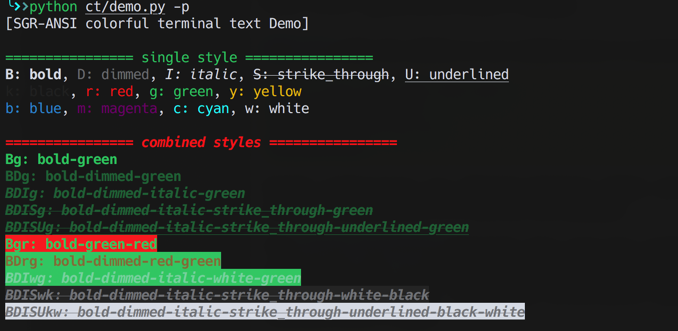
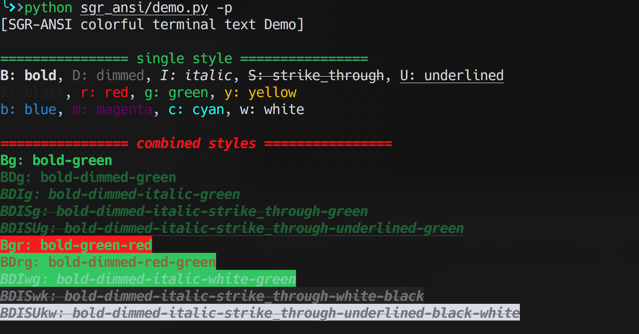
feat: support cli sgransi, update README

diff --git a/setup.py b/setup.py
@@ -17,6 +17,9 @@ setup(
     long_description_content_type="text/markdown",
     license='GPL',
     install_requires=[],
+    entry_points={
+        'console_scripts': ['sgransi=sgr_ansi.demo:main'],
+    },
     project_urls={
         'Bug Reports': 'https://github.com/coghost/sgr-ansi/issues',
         'Source': 'https://github.com/coghost/sgr-ansi',

diff --git a/README.md b/README.md
@@ -6,6 +6,8 @@ awesome SGR ANSI colorful text interface in terminal
 
 ## awesome colorful text
 
+![colorful usage](docs/images/usage.png)
+
 ![colorful demo1](docs/images/demo1.png)
 
 ![colorful demo2](docs/images/demo2.png)
@@ -16,17 +18,17 @@ awesome SGR ANSI colorful text interface in terminal
 pip install sgr-ansi
 ```
 
-## usage:
+## usage
 
-only two rules:
-- styles require alphabet order
+Beware of two rules:
+- styles require **alphabet order**
 - styles go before colors
 
 about styles, you can use as many as possible, but colors only the last two will take effect
 
 so like `BDISUkrgybmcw`, all `BDISU` will take effect, but for colors only `cw: cyan on white` will take effect
 
-### supported
+### styles/colors supported
 
 > styles
 
@@ -44,10 +46,23 @@ echo.BIg()
 echo.BIg('I love you 3 thousand times')
 ```
 
+### chained call
+
+```python
+from sgr_ansi import Chain
+
+Chain().BIy('Yep,').BIUb(
+    'How do you like this?'
+).Bm('\n\t[✔]').BUg('1.').Bg('Y: yes.').Bm('\n\t[✘]').BUr('2.').Br('N: not.').show()
+```
+
+![colorful chain](docs/images/chain.png)
+
 ## run demo
 
-> just run demo.py to check all available styles
+> just run `sgransi` to check all available styles
 
-```shell
-python sgr_ansi/demo.py -h
+```sh
+# after installed sgr_ansi, cli sgransi is available
+sgransi -h
 ```
